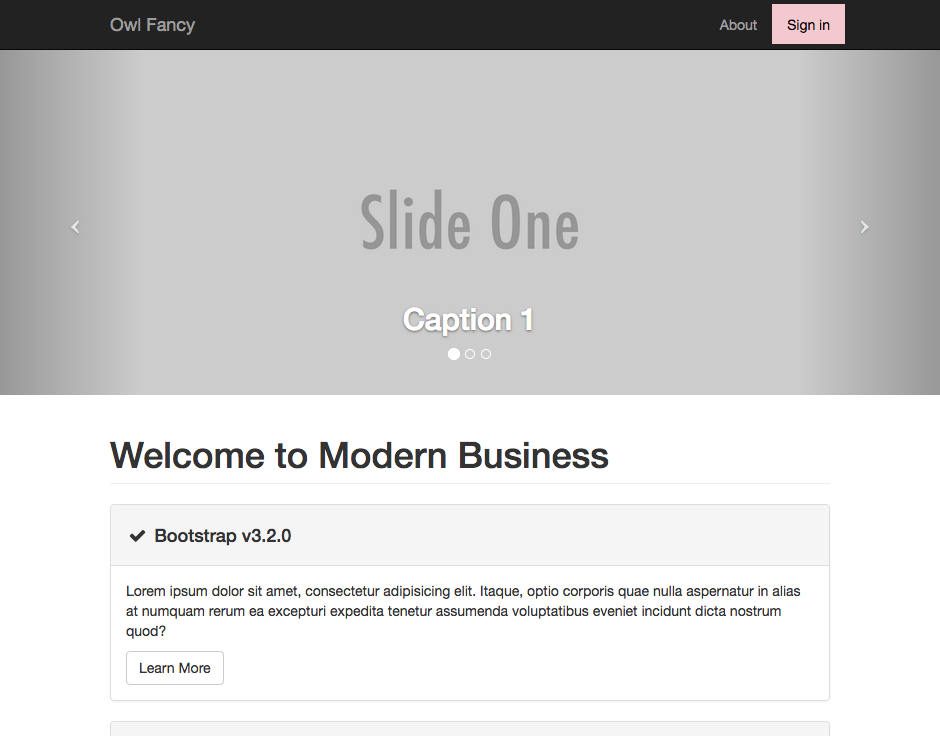
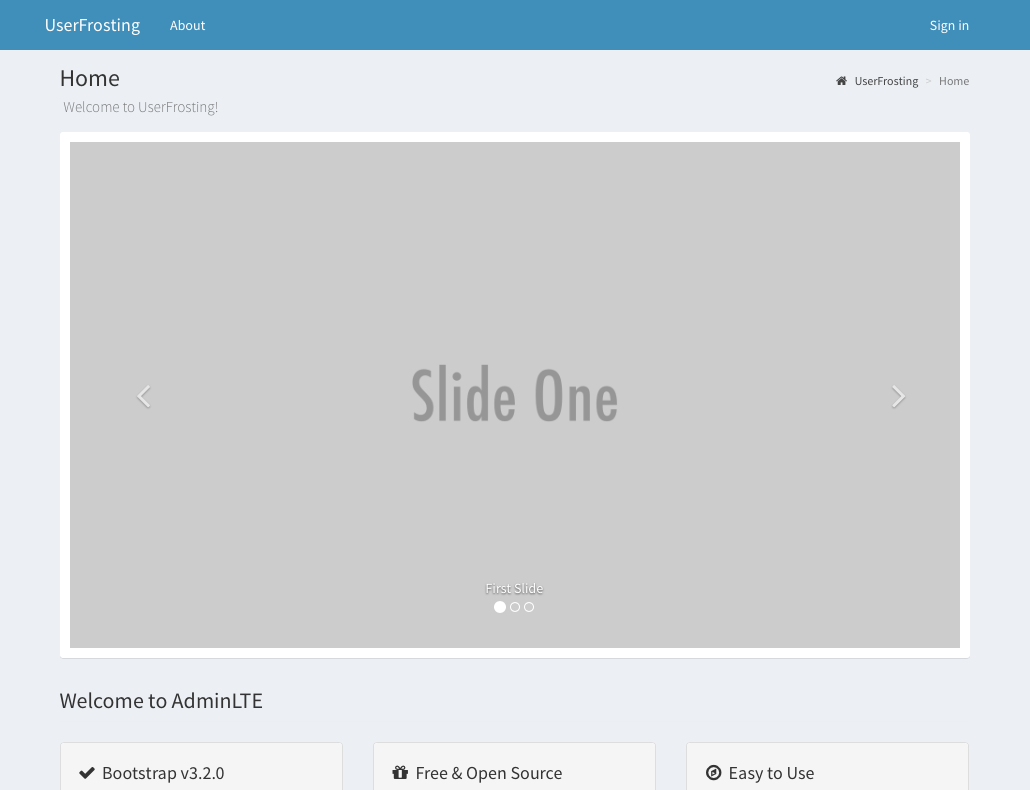
Updated the default site image, added tip box about that missing asset error.

diff --git a/01.basics/03.installation/docs.md b/01.basics/03.installation/docs.md
@@ -227,6 +227,8 @@ You should see a basic page:
 
 ![Basic front page of a UserFrosting installation](/images/front-page.png)
 
+>>>>>> If you encounter an error saying something similar to `The asset 'vendor/font-awesome/css/font-awesome.css' could not be found`, something went wrong at the [UserFrosting assets](#userfrosting-assets) step.
+
 ## UserFrosting installer
 
 To set up the database tables and create your first UserFrosting account, we will run the command-line installer: